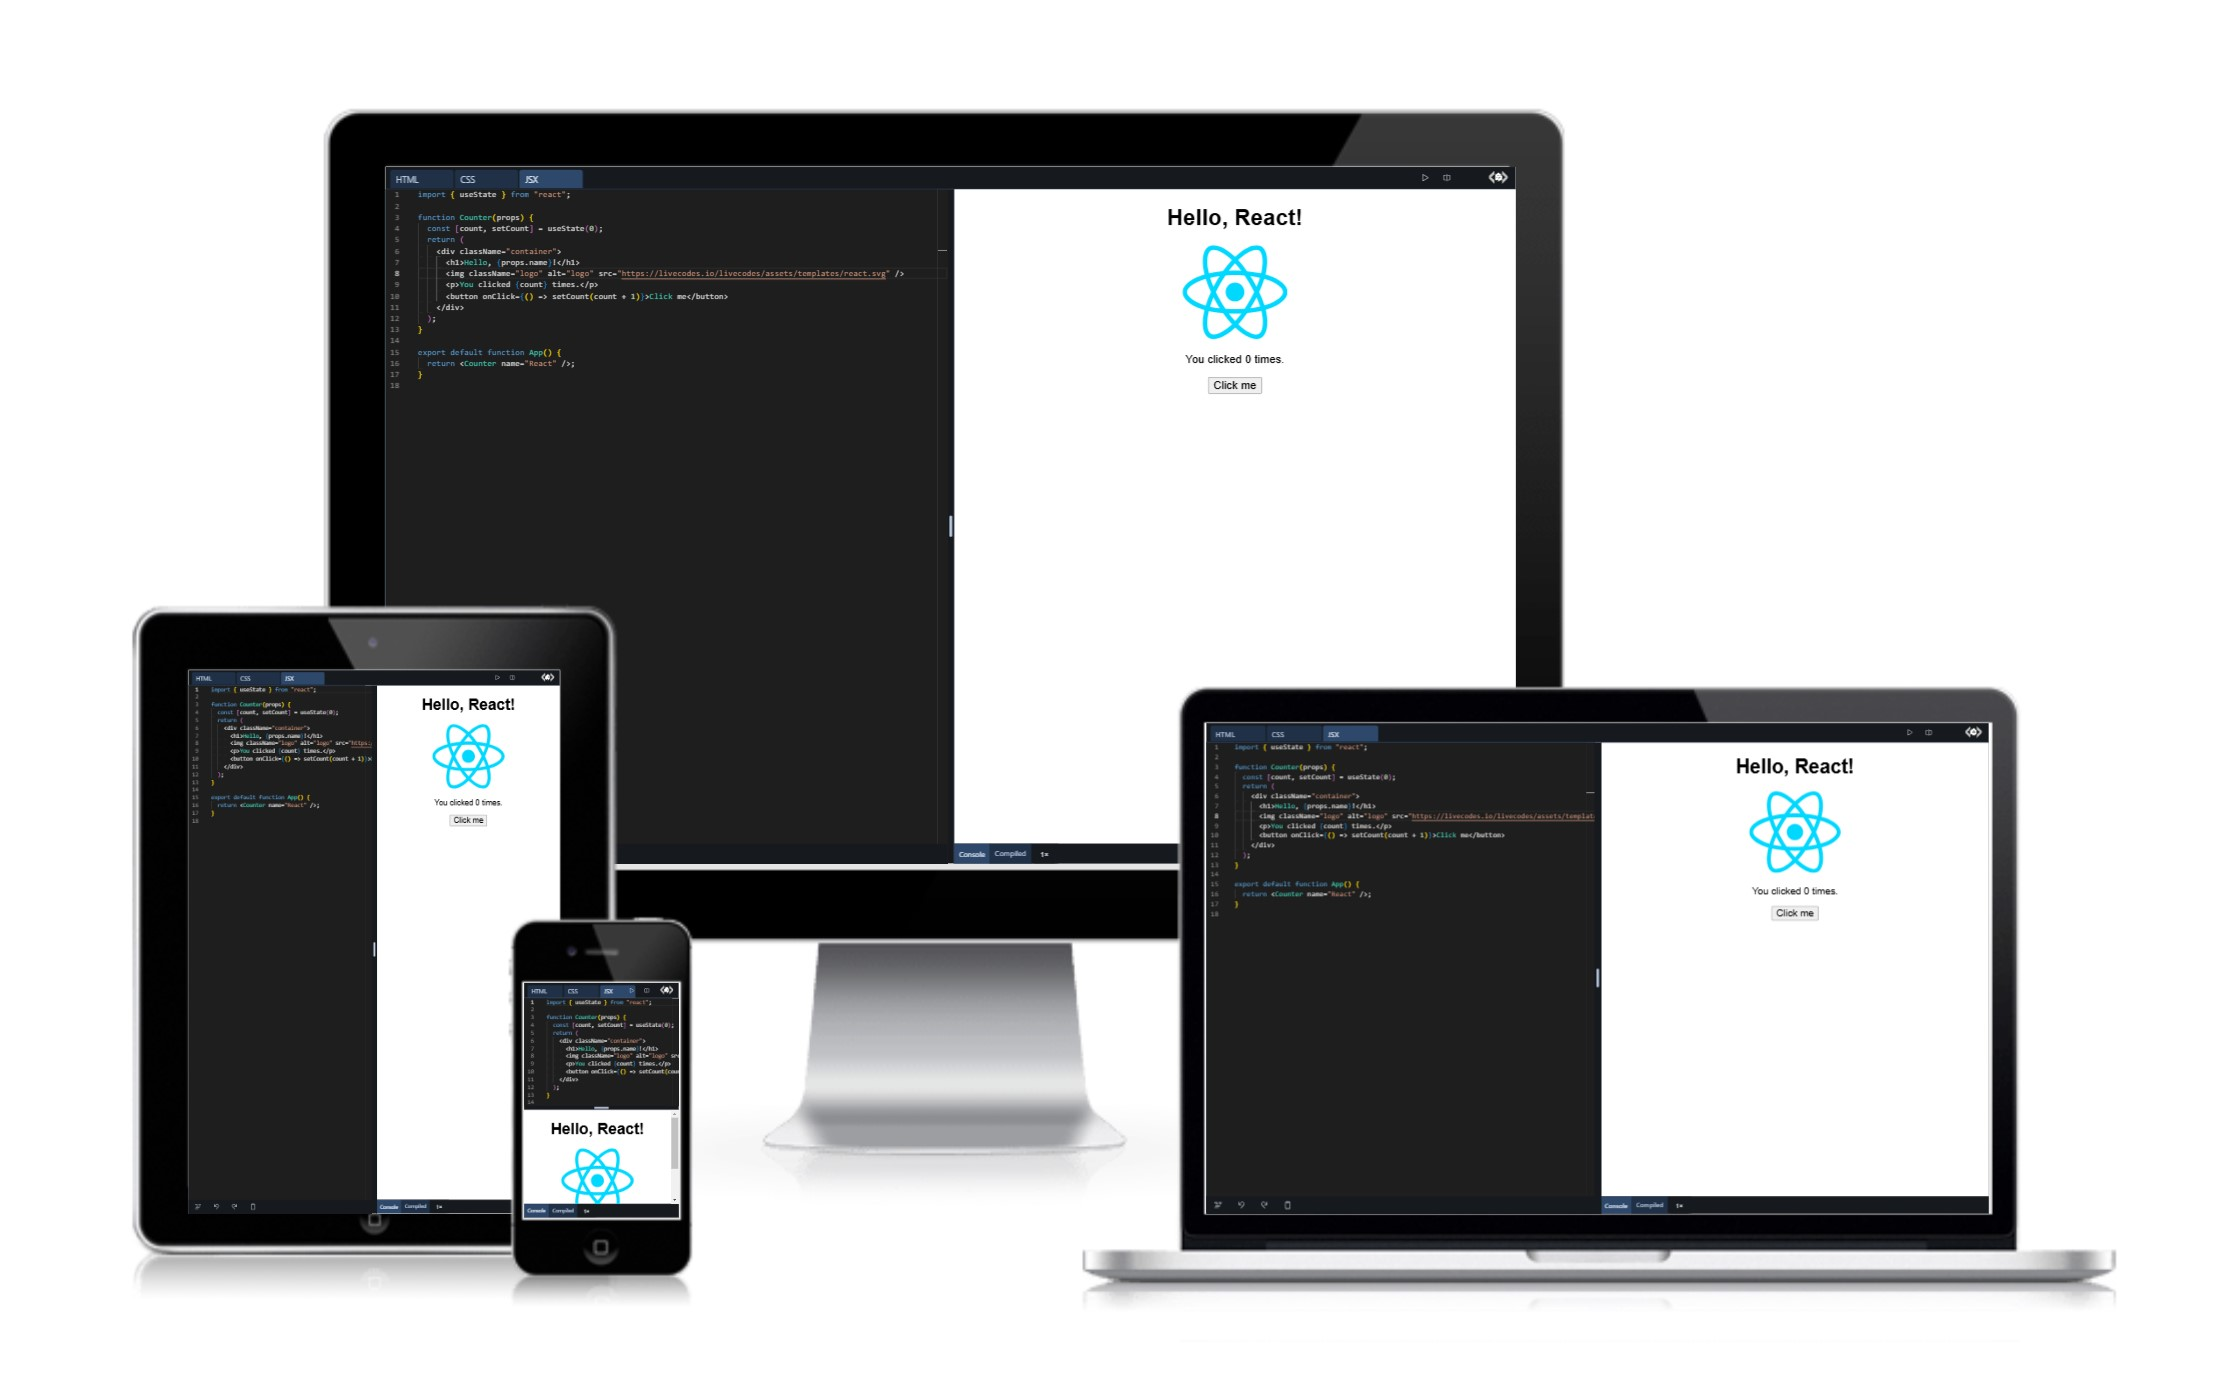
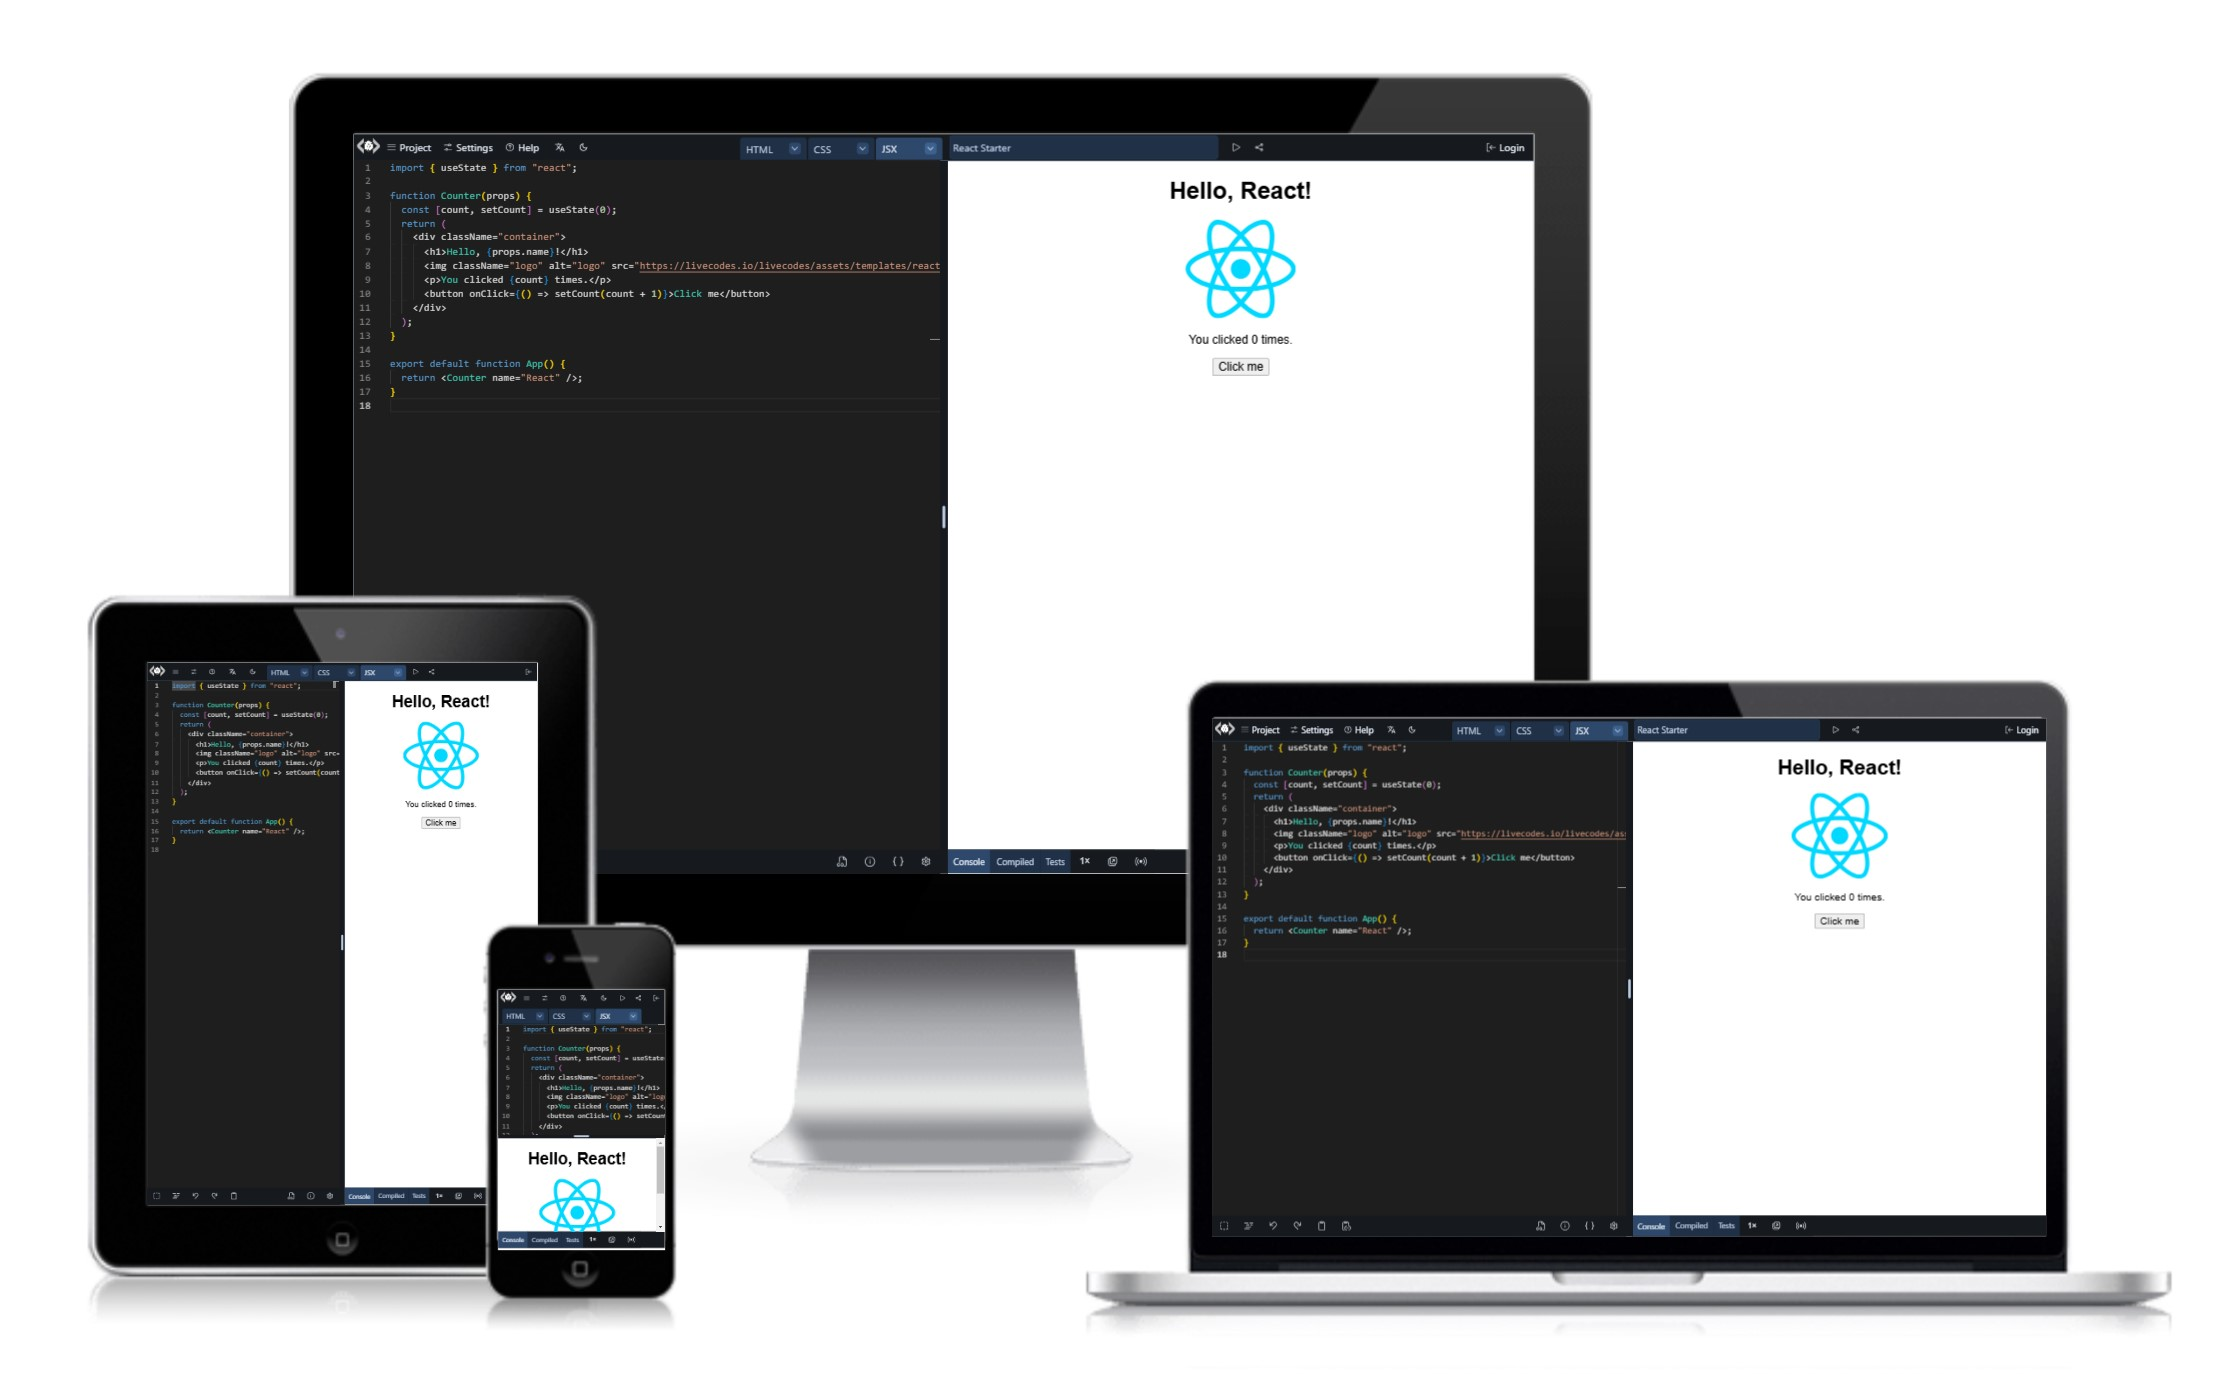
update screenshots in docs

Changed region(s): [[0.0312, 0.0307, 0.9688, 0.9521], [0.4062, 0.3379, 0.4375, 0.3993]]

diff --git a/docs/src/components/HomepageCarousel.tsx b/docs/src/components/HomepageCarousel.tsx
@@ -5,107 +5,115 @@ import styles from './HomepageCarousel.module.css';
 const screenshots = [
   {
     label: 'A large collection of languages',
-    url: './img/screenshots/slider/languages.jpg',
+    url: './img/screenshots/languages-3.jpg',
   },
   {
     label: 'Lots of features',
-    url: './img/screenshots/slider/export.jpg',
+    url: './img/screenshots/export-1.jpg',
+  },
+  {
+    label: 'Even more features',
+    url: './img/screenshots/snippets-1.jpg',
   },
   {
     label: 'Starter templates for new projects',
-    url: './img/screenshots/slider/templates1.jpg',
+    url: './img/screenshots/templates-1.jpg',
   },
   {
     label: '... many starter templates',
-    url: './img/screenshots/slider/templates2.jpg',
+    url: './img/screenshots/templates-2.jpg',
   },
   {
     label: 'Welcome screen - for a quick start',
-    url: './img/screenshots/slider/welcome.jpg',
+    url: './img/screenshots/welcome-1.jpg',
   },
   {
     label: 'Keep your projects organized',
-    url: './img/screenshots/slider/saved-projects.jpg',
+    url: './img/screenshots/saved-projects-1.jpg',
   },
   {
     label: 'Add external resources',
-    url: './img/screenshots/slider/external-resources.png',
+    url: './img/screenshots/resources.jpg',
   },
   {
     label: 'CSS Processors',
-    url: './img/screenshots/slider/css-processors.jpg',
+    url: './img/screenshots/css-processors.jpg',
   },
   {
-    label: 'IntelliSense (autocomplete) - format code',
-    url: './img/screenshots/slider/intellisense.jpg',
+    label: 'IntelliSense (autocomplete)',
+    url: './img/screenshots/intellisense-3.jpg',
+  },
+  {
+    label: 'AI Code Assistant',
+    url: './img/screenshots/ai-1.jpg',
   },
   {
     label: 'Console for quick inspection',
-    url: './img/screenshots/slider/console.jpg',
+    url: './img/screenshots/console-1.jpg',
   },
   {
     label: 'View compiled code',
-    url: './img/screenshots/slider/compiled-code.jpg',
+    url: './img/screenshots/compiled-code-1.jpg',
   },
   {
     label: 'Import code from many sources',
-    url: './img/screenshots/slider/import.png',
+    url: './img/screenshots/import-2.jpg',
   },
   {
     label: 'Embed projects into your web pages',
-    url: './img/screenshots/slider/embed.jpg',
+    url: './img/screenshots/embed-1.jpg',
   },
   {
     label: 'Share your projects with others',
-    url: './img/screenshots/slider/share.jpg',
+    url: './img/screenshots/share-1.jpg',
   },
   {
     label: 'Deploy to GitHub Pages',
-    url: './img/screenshots/slider/deploy.jpg',
+    url: './img/screenshots/deploy-1.jpg',
   },
   {
     label: 'Broadcast real-time code changes',
-    url: './img/screenshots/slider/broadcast.png',
+    url: './img/screenshots/broadcast-1.jpg',
   },
   {
     label: 'Project info',
-    url: './img/screenshots/slider/project-info.png',
+    url: './img/screenshots/project-info.jpg',
   },
   {
     label: 'Assets manager',
-    url: './img/screenshots/slider/assets.jpg',
+    url: './img/screenshots/assets-2.jpg',
   },
   {
     label: 'Code snippets',
-    url: './img/screenshots/slider/snippets.jpg',
+    url: './img/screenshots/snippets-list.jpg',
   },
   {
     label: 'Run automated tests!',
-    url: './img/screenshots/slider/tests.jpg',
+    url: './img/screenshots/tests.jpg',
   },
   {
     label: 'Sync with your other devices',
-    url: './img/screenshots/slider/sync.png',
+    url: './img/screenshots/sync.jpg',
   },
   {
     label: 'Backup and restore your data',
-    url: './img/screenshots/slider/backup-restore.png',
+    url: './img/screenshots/backup-restore-1.jpg',
   },
   {
     label: 'Fine-tune your editor settings',
-    url: './img/screenshots/slider/editor-settings.png',
+    url: './img/screenshots/editor-settings-1.jpg',
   },
   {
     label: 'Emmet support and Vim/Emacs modes',
-    url: './img/screenshots/slider/editor-settings2.png',
+    url: './img/screenshots/editor-settings-3.jpg',
   },
   {
-    label: 'Light theme',
-    url: './img/screenshots/slider/light-theme.jpg',
+    label: 'Select your favorite theme/color',
+    url: './img/screenshots/themes-5.jpg',
   },
   {
     label: 'Responsive layout',
-    url: './img/screenshots/slider/responsive.jpg',
+    url: './img/screenshots/responsive.jpg',
   },
 ];
 

diff --git a/docs/docs/features/broadcast.md b/docs/docs/features/broadcast.md
@@ -10,23 +10,23 @@ Broadcast can only be performed from the full app, and not from embedded playgro
 
 :::
 
-The `Broadcast` screen can be accessed from the Broadcast icon in the [tools pane](./tools-pane.md) (below the result page), or from the app menu → Broadcast.
+The `Broadcast` screen can be accessed from the Broadcast icon in the [tools pane](./tools-pane.md) (below the result page), or from the Project menu → Broadcast.
 
 import RunInLiveCodes from '../../src/components/RunInLiveCodes.tsx';
 
 <RunInLiveCodes params={{screen: 'broadcast'}} linkText="direct link" />
 
-![Broadcast UI](./../../static/img/screenshots/broadcast.jpg)
+![Broadcast UI](./../../static/img/screenshots/broadcast-1.jpg)
 
 On connecting to the server, the channel URL returned by the server is displayed. The channel URL can be shared to different clients (browsers on same or different devices) to view result page or code updates in real-time.
 
 If the option `Include source code` is enabled, the source and compiled code together with the current project configuration are also posted to the server with each update.
 
-![Broadcast UI - broadcasting](./../../static/img/screenshots/broadcasting.jpg)
+![Broadcast UI - broadcasting](./../../static/img/screenshots/broadcast-2.jpg)
 
 The Broadcast icon (in tools pane), shows the broadcast status. Clicking the icon, opens the broadcast UI, where the channel URL is displayed and the broadcast can be stopped.
 
-![Broadcast icon - broadcasting](./../../static/img/screenshots/broadcasting2.jpg)
+![Broadcast icon - broadcasting](./../../static/img/screenshots/broadcast-3.jpg)
 
 :::info Server
 
@@ -57,9 +57,9 @@ You can use one of these links to self-host it:
 
 These are screenshots for the live-updated result page and code:
 
-![Broadcasting result](./../../static/img/screenshots/broadcasting-result.jpg)
+![Broadcasting result](./../../static/img/screenshots/broadcast-4.jpg)
 
-![Broadcasting code](./../../static/img/screenshots/broadcasting-code.jpg)
+![Broadcasting code](./../../static/img/screenshots/broadcast-5.jpg)
 
 ## Technical Details
 

diff --git a/docs/docs/features/backup-restore.md b/docs/docs/features/backup-restore.md
@@ -2,7 +2,7 @@
 
 LiveCodes data can be backed-up, so that it can be later restored on the same or different device.
 
-The Backup/Restore screen can be accessed from the app menu → Backup / Restore.
+The Backup/Restore screen can be accessed from the Settings menu → Backup / Restore.
 
 import RunInLiveCodes from '../../src/components/RunInLiveCodes.tsx';
 
@@ -10,7 +10,7 @@ import RunInLiveCodes from '../../src/components/RunInLiveCodes.tsx';
 
 ## Backup
 
-![LiveCode Backup](../../static/img/screenshots/backup.jpg)
+![LiveCode Backup](../../static/img/screenshots/backup-restore-1.jpg)
 
 The backup can include one or more of the following:
 
@@ -24,7 +24,7 @@ A zip file containing the (base64-encoded binary) backup data is downloaded. Thi
 
 ## Restore
 
-![LiveCode Restore](../../static/img/screenshots/restore.jpg)
+![LiveCode Restore](../../static/img/screenshots/backup-restore-2.jpg)
 
 When restoring a backup, there are 2 options for managing the current data:
 

diff --git a/docs/docs/features/deploy.md b/docs/docs/features/deploy.md
@@ -2,13 +2,13 @@
 
 The result page (of any number of projects) can be deployed and hosted at [GitHub Pages](https://pages.github.com/) (a free service from GitHub for hosting static websites). This requires login with a [GitHub account](./github-integration.md).
 
-The `Deploy` screen can be accessed from the app menu → Deploy.
+The `Deploy` screen can be accessed from the Project menu → Deploy.
 
 import RunInLiveCodes from '../../src/components/RunInLiveCodes.tsx';
 
 <RunInLiveCodes params={{screen: 'deploy'}} linkText="direct link" />
 
-![LiveCodes Deploy](../../static/img/screenshots/deploy.jpg)
+![LiveCodes Deploy](../../static/img/screenshots/deploy-1.jpg)
 
 The result page (and optionally the source code) is pushed to `gh-pages` branch of a **public** GitHub repo (new or existing). The page, shortly, becomes available on `https://{user}.github.io/{repo}/`.
 

diff --git a/docs/docs/configuration/query-params.md b/docs/docs/configuration/query-params.md
@@ -37,11 +37,14 @@ https://livecodes.io?js=console.log('Hello World!')&console=open
   [delay](./configuration-object.md#delay),
   [formatOnsave](./configuration-object.md#formatOnsave),
   [theme](./configuration-object.md#theme),
+  [themeColor](./configuration-object.md#themecolor),
   [appLanguage](./configuration-object.md#applanguage),
   [recoverUnsaved](./configuration-object.md#recoverUnsaved),
   [welcome](./configuration-object.md#welcome),
   [showSpacing](./configuration-object.md#showSpacing),
+  [layout](./configuration-object.md#layout),
   [editor](./configuration-object.md#editor),
+  [editorTheme](./configuration-object.md#editortheme),
   [fontFamily](./configuration-object.md#fontFamily),
   [fontSize](./configuration-object.md#fontSize),
   [useTabs](./configuration-object.md#useTabs),

diff --git a/docs/docs/features/embeds.md b/docs/docs/features/embeds.md
@@ -24,9 +24,9 @@ import RunInLiveCodes from '../../src/components/RunInLiveCodes.tsx';
 
 It shows a preview of the embedded playground, allows customizations of [embed options](../sdk/js-ts.md#embed-options) and provides generated code that can be added to the web page that will embed the playground.
 
-![LiveCodes embed](../../static/img/screenshots/embed1.png)
-![LiveCodes embed](../../static/img/screenshots/embed2.png)
-![LiveCodes embed](../../static/img/screenshots/embed3.png)
+![LiveCodes embed](../../static/img/screenshots/embed-1.jpg)
+![LiveCodes embed](../../static/img/screenshots/embed-2.jpg)
+![LiveCodes embed](../../static/img/screenshots/embed-3.jpg)
 
 :::info Note
 

diff --git a/docs/docs/features/sync.md b/docs/docs/features/sync.md
@@ -4,13 +4,13 @@ LiveCodes local data can be synchronized to a GitHub repo. This can be used as a
 
 A GitHub account is required. The user must give access to [(Private Repos) while logging in](./github-integration.md).
 
-The Sync screen can be accessed from the app menu → Sync.
+The Sync screen can be accessed from the Settings menu → Sync.
 
 import RunInLiveCodes from '../../src/components/RunInLiveCodes.tsx';
 
 <RunInLiveCodes params={{screen: 'sync'}} linkText="direct link" />
 
-![LiveCodes Sync](../../static/img/screenshots/sync.png)
+![LiveCodes Sync](../../static/img/screenshots/sync.jpg)
 
 Data can be synchronized to a new (**private**) or existing repo.
 

diff --git a/docs/docs/features/compiled-code.md b/docs/docs/features/compiled-code.md
@@ -6,6 +6,8 @@ The resulting compiled/transpiled code can be seen in the compiled code viewer (
 
 This can be a great tool for learning. As you write code, you see the compiled code and the resulting page at the same time. The compiled code viewer shows the code compiled from the currently active editor (markup/style/script). This includes the CSS produced by CSS processors (e.g. Autoprefixer), if enabled.
 
+![Compiled Code Viewer](./../../static/img/screenshots/compiled-code-1.jpg)
+
 e.g. https://livecodes.io/?ts&compiled=full <br />
 sets TypeScript as the active editor and shows compiled code viewer maximized.
 

diff --git a/docs/docs/about.md b/docs/docs/about.md
@@ -1,6 +1,6 @@
 # About us
 
-LiveCodes is built and maintained primarily by [Hatem Hosny](https://github.com/hatemhosny), from Egypt <img style={{ height: '0.8em' }} src="https://flagcdn.com/h20/eg.png" alt="Egypt"></img>.
+LiveCodes is built and maintained by [Hatem Hosny](https://github.com/hatemhosny), and wonderful [contributors](https://github.com/live-codes/livecodes/graphs/contributors).
 
 Feature requests and bug reports are received on the [GitHub repo](https://github.com/live-codes/livecodes/issues).
 

diff --git a/docs/docs/configuration/configuration-object.md b/docs/docs/configuration/configuration-object.md
@@ -114,7 +114,7 @@ Default: all supported languages in full app and only current editor languages i
 
 List of enabled languages. Languages that are not already loaded in the editors ([markup](#markup), [style](#style) and [script](#script)) can be selected from a drop down menu at the editor title.
 
-![Change Language](../../static/img/screenshots/languages.jpg)
+![Change Language](../../static/img/screenshots/languages-3.jpg)
 
 ### `markup`
 
